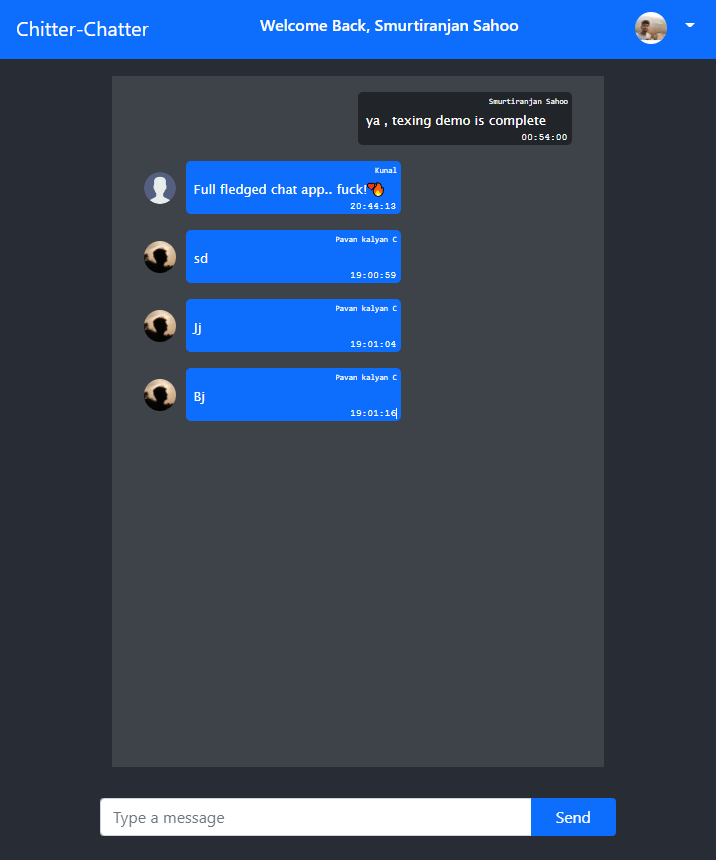
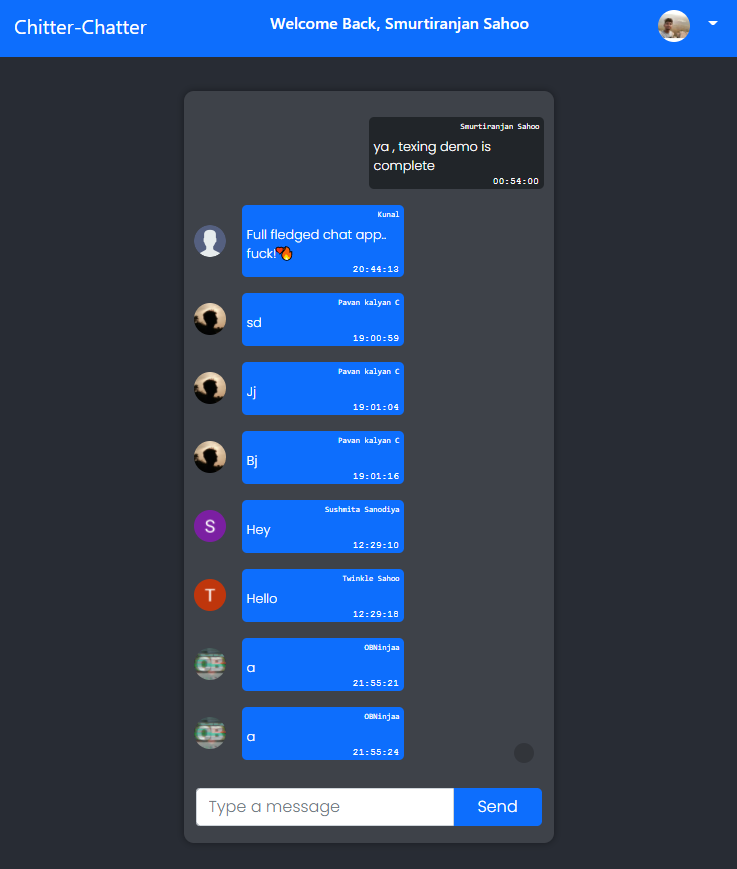
Minor UI fix

Changed region(s): [[0.0, 0.0, 1.0, 0.8767], [0.1229, 0.907, 0.8603, 0.9977]]

diff --git a/src/App.css b/src/App.css
@@ -52,6 +52,8 @@ body {
 .send-from {
   margin-top: 1.3em;
   font-family: "Poppins", sans-serif;
+  border: none;
+  margin: 20px 12px;
 }
 
 .wrapper-msg {
@@ -169,13 +171,54 @@ body {
   }
 }
 
-@media (max-height: 850px) {
+/* height queries for small screen size phones */
+@media (max-height: 600px) {
   .send-from {
-    margin-top: 10px;
-    margin-bottom: 20px;
+    margin-top: 5px;
+    margin-bottom: 10px;
+  }
+  .container-chat {
+    height: 85%;
+  }
+  .App {
+    height: calc(80vh - 65px);
+    margin-top: calc(15vh / 6);
+  }
+}
+
+@media (min-height: 600px) and (max-height: 700px) {
+  .send-from {
+    margin-top: 15px;
+    margin-bottom: 10px;
   }
   .container-chat {
     height: 87%;
+  }
+  .App {
+    height: calc(85vh - 65px);
+    margin-top: calc(15vh / 4);
+  }
+}
+@media (min-height: 700px) and (max-height: 780px) {
+  .send-from {
+    margin-top: 20px;
+    margin-bottom: 10px;
+  }
+  .container-chat {
+    height: 87%;
+  }
+  .App {
+    height: calc(85vh - 65px);
+    margin-top: calc(15vh / 4);
+  }
+}
+@media (min-height: 780px) and (max-height: 850px) {
+  .send-from {
+    margin-top: 20px;
+    margin-bottom: 10px;
+  }
+  .container-chat {
+    height: 89%;
   }
   .App {
     height: calc(85vh - 65px);

diff --git a/src/Components/SendForm.js b/src/Components/SendForm.js
@@ -1,4 +1,4 @@
-import React, { useState, useContext } from "react";
+import React, { useState, useContext, useEffect } from "react";
 import {
   Button,
   Input,
@@ -40,7 +40,6 @@ const SendForm = () => {
 
     return `${date} ${time}`;
   };
-
   // console.log(myUuid());
 
   const sendMessage = async () => {
@@ -69,7 +68,7 @@ const SendForm = () => {
   };
 
   return (
-    <Container className="send-from">
+    <div className="send-from">
       <MessageContext.Provider value={{ messageTime, userName, userPhoto }}>
         <Form onSubmit={handleSubmit}>
           <FormGroup>
@@ -107,7 +106,7 @@ const SendForm = () => {
           </FormGroup>
         </Form>
       </MessageContext.Provider>
-    </Container>
+    </div>
   );
 };
 
